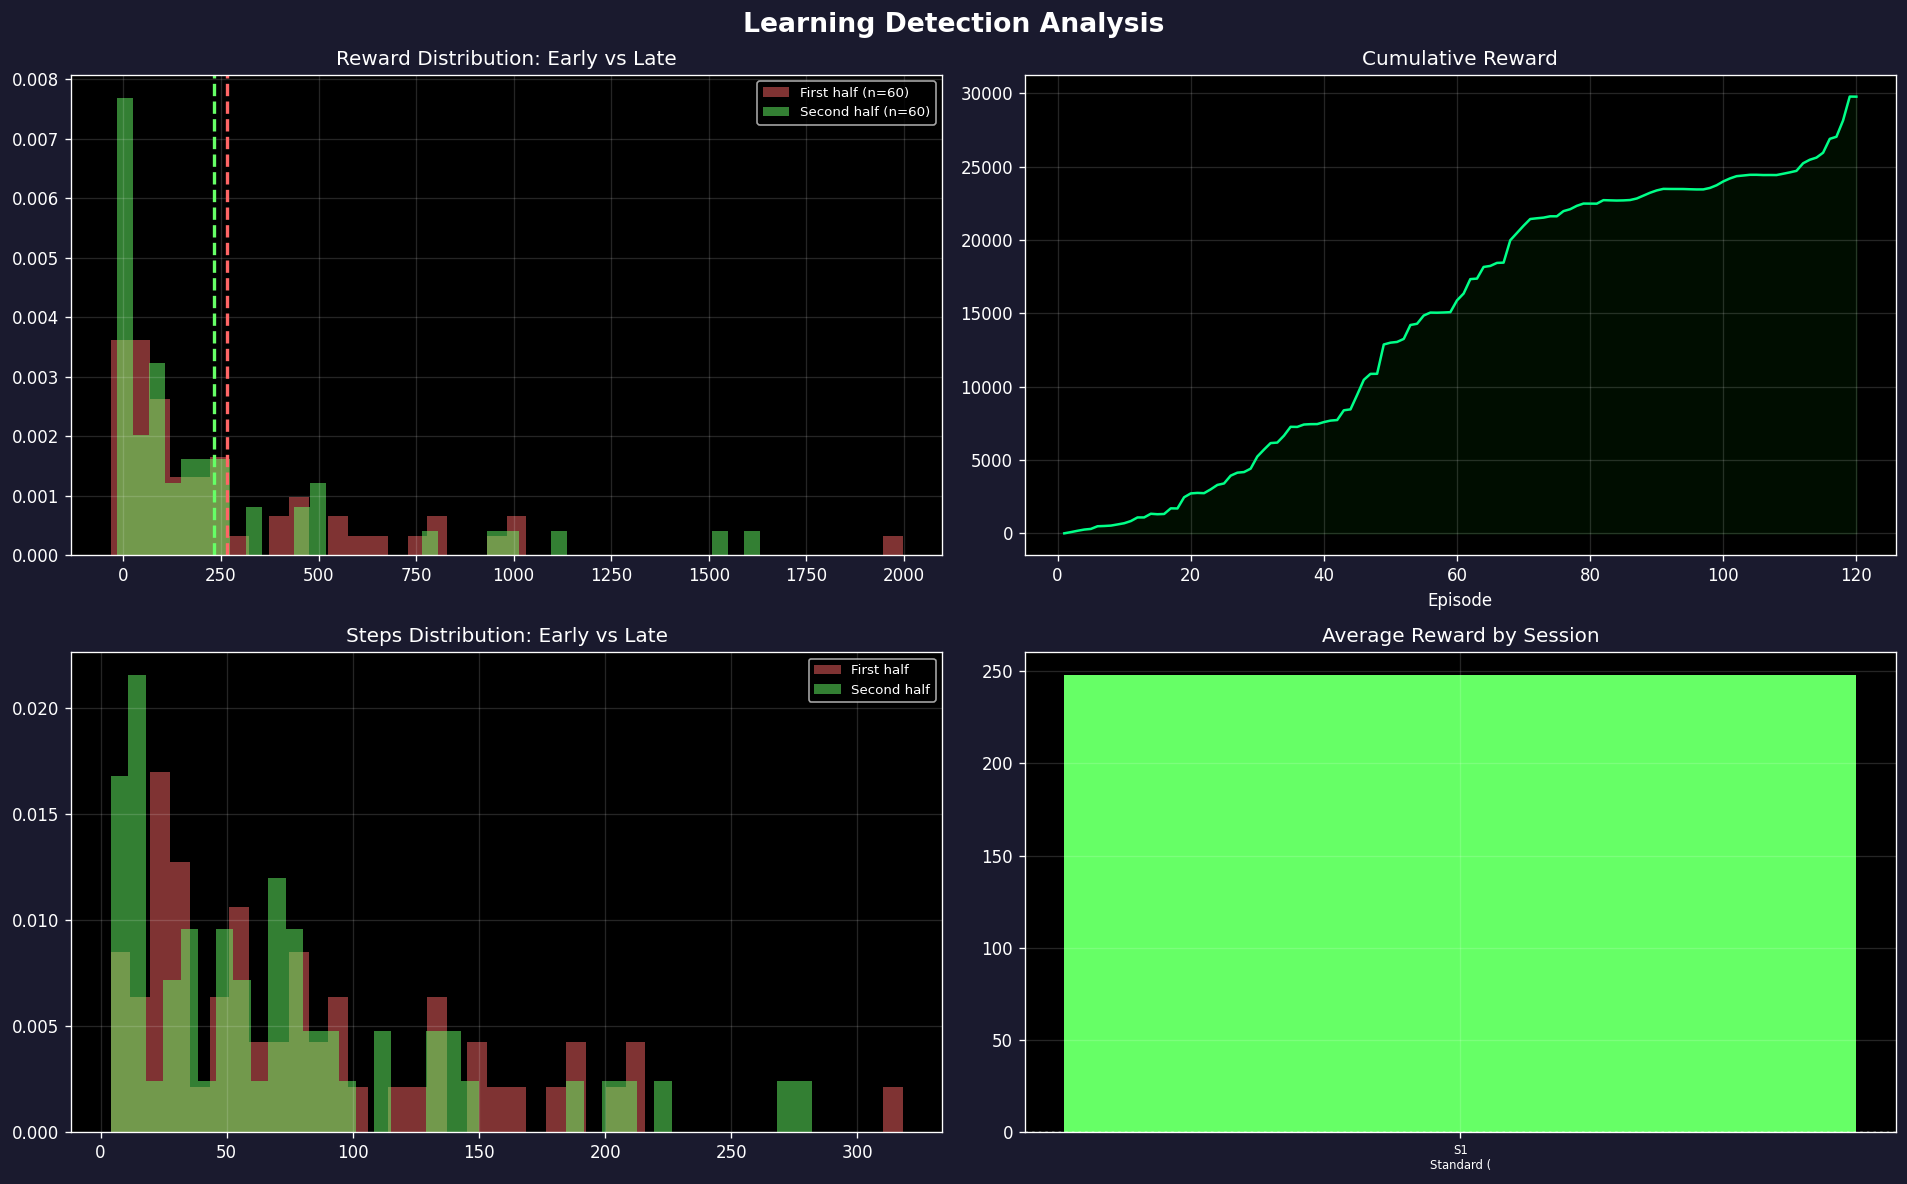
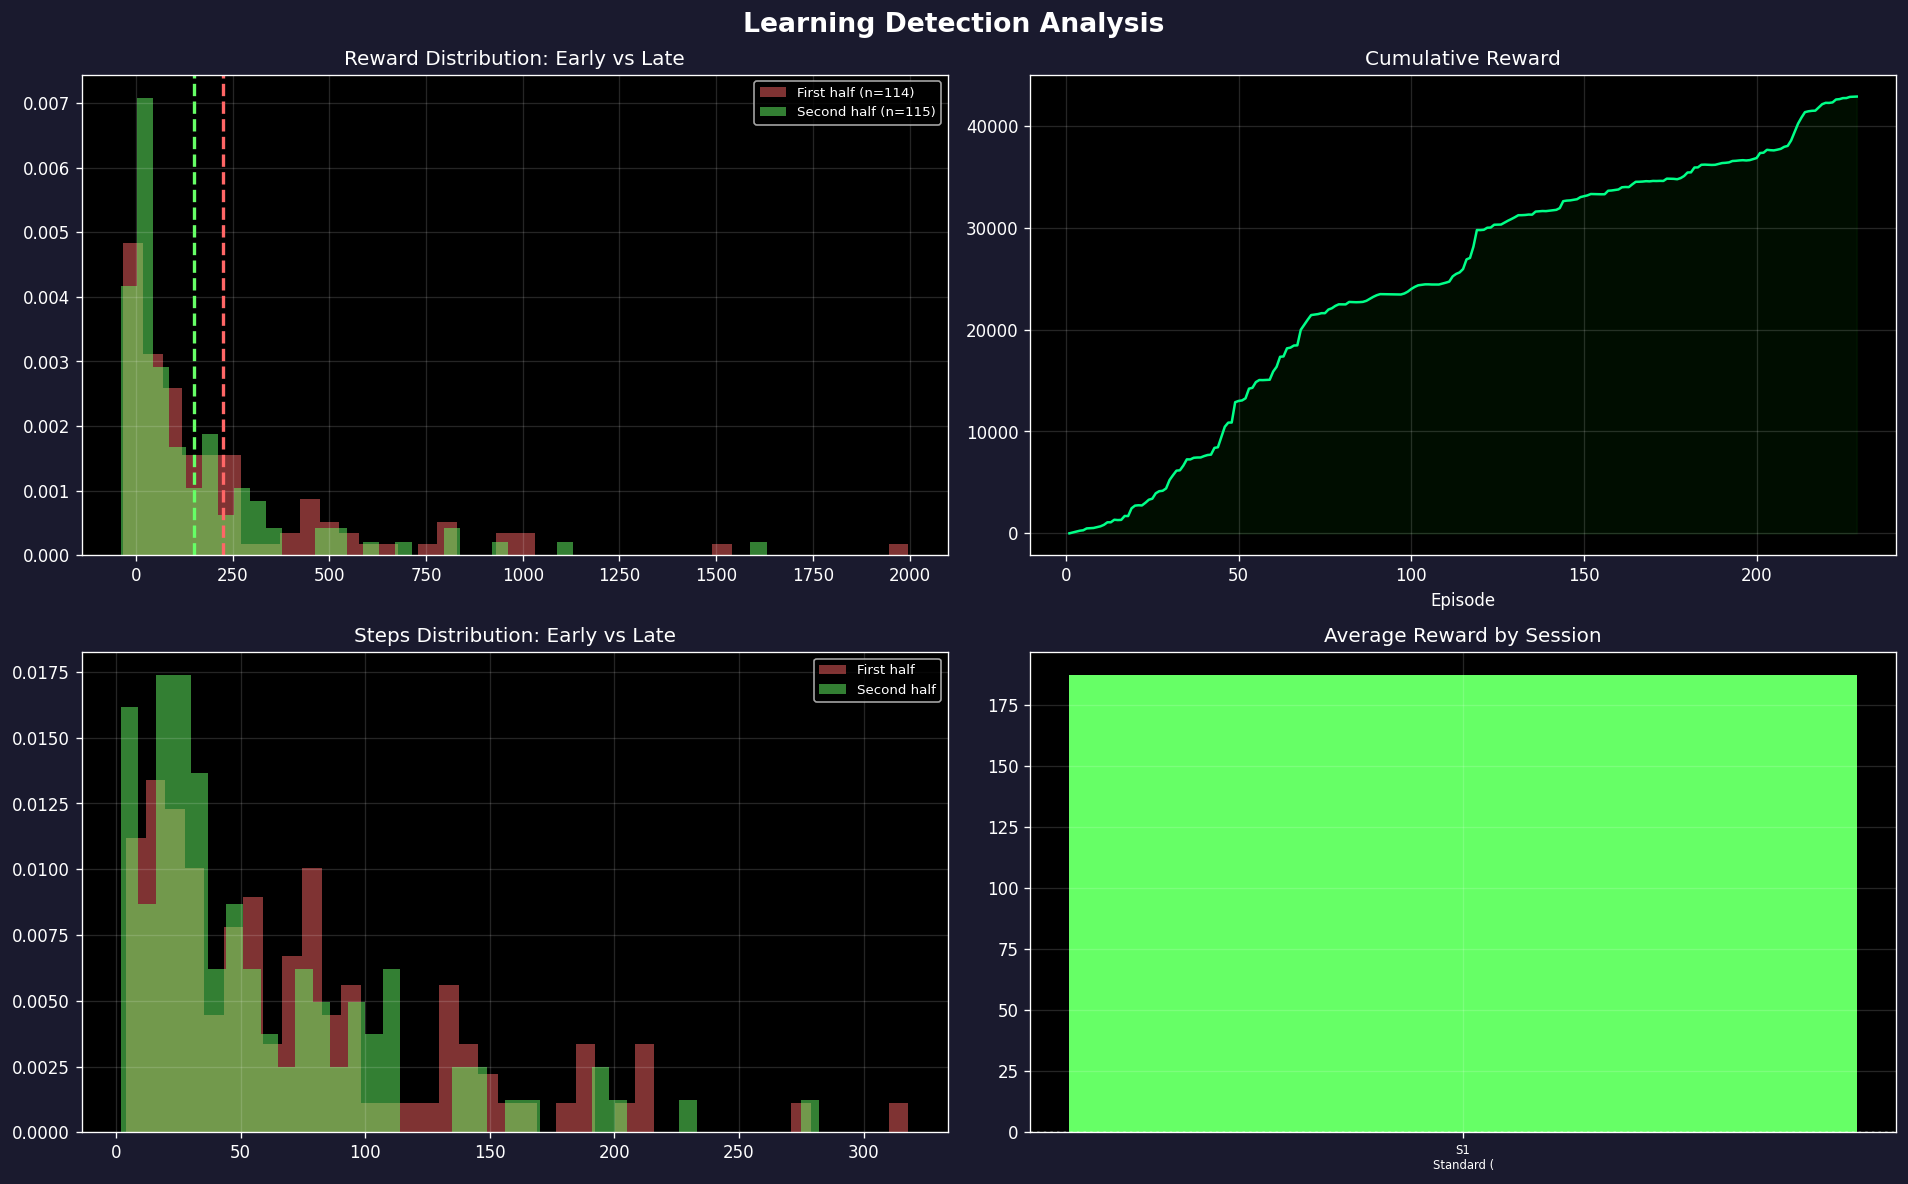
stats

diff --git a/gen2/progress_report.md b/gen2/progress_report.md
@@ -1,28 +1,27 @@
 # Slither.io Bot - Training Progress Report
 
-**Generated:** 2026-02-12 22:04:59  
-**Total Episodes:** 120  
+**Generated:** 2026-02-12 22:15:03  
+**Total Episodes:** 229  
 **Training Sessions:** 1
 
-## Verdict: NOT LEARNING (Confidence: 55%)
+## Verdict: NOT LEARNING (Confidence: 40%)
 
-**Goal Feasibility:** UNLIKELY (5-25% chance) without tuning
+**Goal Feasibility:** VERY UNLIKELY (<5% chance)
 
-### Warnings
-- Epsilon very high (0.902) - still mostly random
+### Critical Issues
+- Rewards DECLINING: -74.5 (getting worse)
 
 ### Positive Signals
-- Food collection improving (slope=0.0547/ep)
 - Loss decreasing (model converging)
 
 ## Key Statistics
 
 | Metric | Mean | Std | Min | Max | P50 | P95 |
 |--------|------|-----|-----|-----|-----|-----|
-| Reward | 248.01 | 356.97 | -32.56 | 1996.81 | 104.39 | 980.32 |
-| Steps | 75.83 | 66.25 | 4.00 | 318.00 | 55.00 | 211.05 |
-| Food | 30.25 | 14.52 | 3.00 | 77.00 | 25.50 | 58.10 |
-| Loss | 55.43 | 97.18 | 1.26 | 392.24 | 9.04 | 274.99 |
+| Reward | 187.19 | 291.91 | -38.58 | 1996.81 | 82.38 | 807.22 |
+| Steps | 63.66 | 57.79 | 2.00 | 318.00 | 47.00 | 189.20 |
+| Food | 28.06 | 12.34 | 0.00 | 77.00 | 24.00 | 52.60 |
+| Loss | 31.47 | 74.72 | 1.20 | 392.24 | 6.32 | 230.81 |
 
 ## Goal Progress
 
@@ -35,18 +34,16 @@
 
 | # | Style | Episodes | Avg Reward | Avg Steps |
 |---|-------|----------|------------|----------|
-| 1 | Standard (Curriculum) | 1-120 | 248.0 | 76 |
+| 1 | Standard (Curriculum) | 1-229 | 187.2 | 64 |
 
 ## Recommendations
 
-Some learning signals present but not strong enough.
-  1. Fine-tune hyperparameters
-  2. Increase training duration significantly
-  3. Consider curriculum adjustments
+Significant issues detected. Major changes needed:
+  1. Fix learning rate and optimizer state
+  2. Simplify reward structure
+  3. Ensure episodes can last long enough to learn from
 
-1. Epsilon is 0.902 after 120 episodes. Consider faster decay (eps_decay=50000) or lower eps_start if resuming.
-
-2. Average episode too short. Consider:
+1. Average episode too short. Consider:
      - Reducing death penalties to avoid discouraging exploration
      - Adding survival bonus to incentivize staying alive
 
